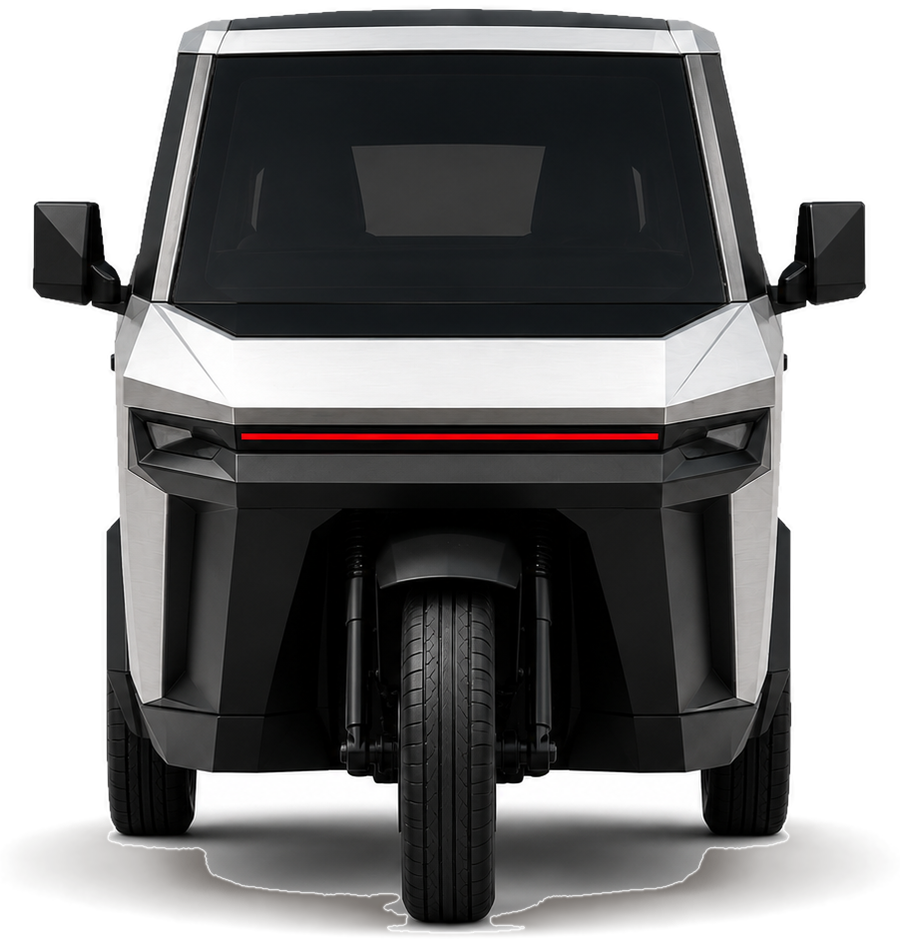
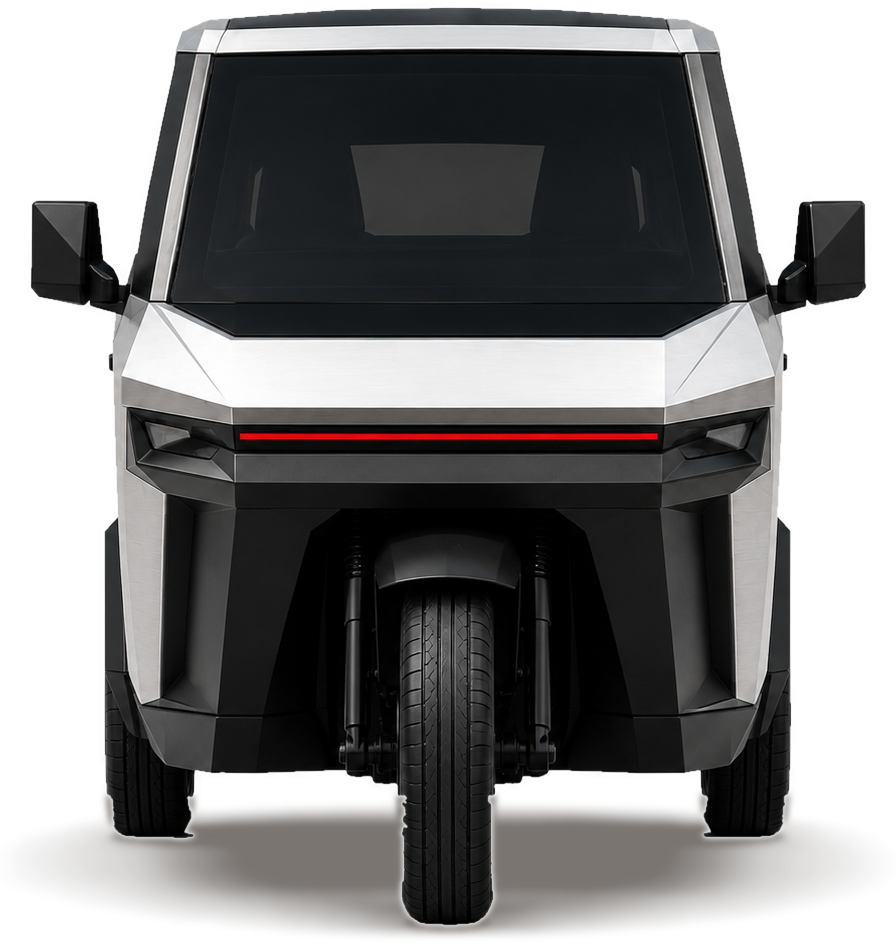
Renders: the floor under the body (pale and grey patches) becomes the soft contact shadow, per-view floor lines, softer shadow; regenerated all three cut-outs

diff --git a/DashboardIntegration/tools/cut_tukzie_renders.py b/DashboardIntegration/tools/cut_tukzie_renders.py
@@ -24,11 +24,12 @@ INTEG = os.path.dirname(HERE)
 OUT = os.path.join(INTEG, "assets")
 VIEWS = {"three_quarter": "new_tukzie_three_quarter_front.png", "front": "new_tukzie_front.png",
          "side": "new_tukzie_side.png"}
+FLOOR_Y = {"three_quarter": 770, "front": 855, "side": 790}   # source px: below the sills and the body's underside
 MAX_W = 900
 SHADOW_RGB = (40, 32, 26)
 
 
-def cut(path):
+def cut(path, floor_y=None):
     rgb = np.asarray(Image.open(path).convert("RGB")).astype(np.float32)
     L = rgb.mean(axis=2)
     chroma = rgb.max(axis=2) - rgb.min(axis=2)
@@ -72,14 +73,39 @@ def cut(path):
         near_bg = ndimage.binary_dilation(~vehicle, iterations=3)       # touching the background (door panels do not)
         touch = set(np.unique(lab_g[near_bg & ground])) - {0}
         vehicle = vehicle & ~np.isin(lab_g, [i + 1 for i, s in enumerate(sizes) if s > 150 and (i + 1) in touch])
-    vehicle = ndimage.binary_opening(vehicle, iterations=1)
+    # what is left of the floor under the body (the render's grey ground, below the sills): every neutral patch
+    # under the view's floor line that reaches the outside is ground, not vehicle, so the cut-out sits cleanly on the
+    # night charcoal. Tyres, trim and wheel rims are dark (or enclosed by the tyre) and stay; door panels sit above
+    # the line. Repeated, since removing one patch can open the next to the outside.
+    if floor_y:
+        zone = np.zeros_like(vehicle)
+        zone[int(floor_y):, :] = True
+        band = np.zeros_like(vehicle)
+        band[int(floor_y) - 70:, :] = True
+        for _i in range(4):
+            floor = vehicle & ((zone & (L > 50)) | (band & (L > 190))) & (chroma < 16)
+            lab_f, n_f = ndimage.label(floor)
+            if not n_f:
+                break
+            out_edge = ndimage.binary_dilation(~vehicle, iterations=2)
+            touch = set(np.unique(lab_f[out_edge & floor])) - {0}
+            if not touch:
+                break
+            vehicle = vehicle & ~np.isin(lab_f, list(touch))
+        # any grey left under the floor line is the render's own ground shadow: it becomes the soft shadow layer
+        vehicle = vehicle & ~(((zone & (L > 85)) | (band & (L > 243))) & (chroma < 16))
+    vehicle = ndimage.binary_opening(vehicle, iterations=2)
+    lab_v, n_v = ndimage.label(vehicle)
+    if n_v > 1:
+        sizes = ndimage.sum(vehicle, lab_v, range(1, n_v + 1))
+        vehicle = lab_v == (int(np.argmax(sizes)) + 1)
     core = ndimage.binary_erosion(vehicle, iterations=1)
     v_alpha = ndimage.gaussian_filter(core.astype(np.float32), 0.8)
     v_alpha = np.clip(v_alpha * 1.15, 0, 1)
     # the render's own ground shadow, as a translucent shadow
     dark = np.clip((251.0 - L) / 130.0, 0, 1) ** 0.85
-    s_alpha = np.where(vehicle, 0, dark * 0.78)
-    s_alpha = ndimage.gaussian_filter(s_alpha, 1.2)
+    s_alpha = np.where(vehicle, 0, dark * 0.62)
+    s_alpha = ndimage.gaussian_filter(s_alpha, 3.0)                # a soft contact shadow, no hard patch edges
     alpha = np.maximum(v_alpha, s_alpha * (1 - v_alpha))
     out = np.zeros(rgb.shape[:2] + (4,), np.float32)
     w_v = np.where(alpha > 0, v_alpha / np.maximum(alpha, 1e-6), 0)[..., None]
@@ -99,7 +125,7 @@ def main(argv):
     src = argv[1] if len(argv) > 1 else os.path.join(INTEG, "..", "..")
     os.makedirs(OUT, exist_ok=True)
     for view, name in VIEWS.items():
-        img = cut(os.path.join(src, name))
+        img = cut(os.path.join(src, name), FLOOR_Y.get(view))
         dst = os.path.join(OUT, f"tukzie_{view}.png")
         img.save(dst, optimize=True)
         print(f"{dst}: {img.width} x {img.height}")
